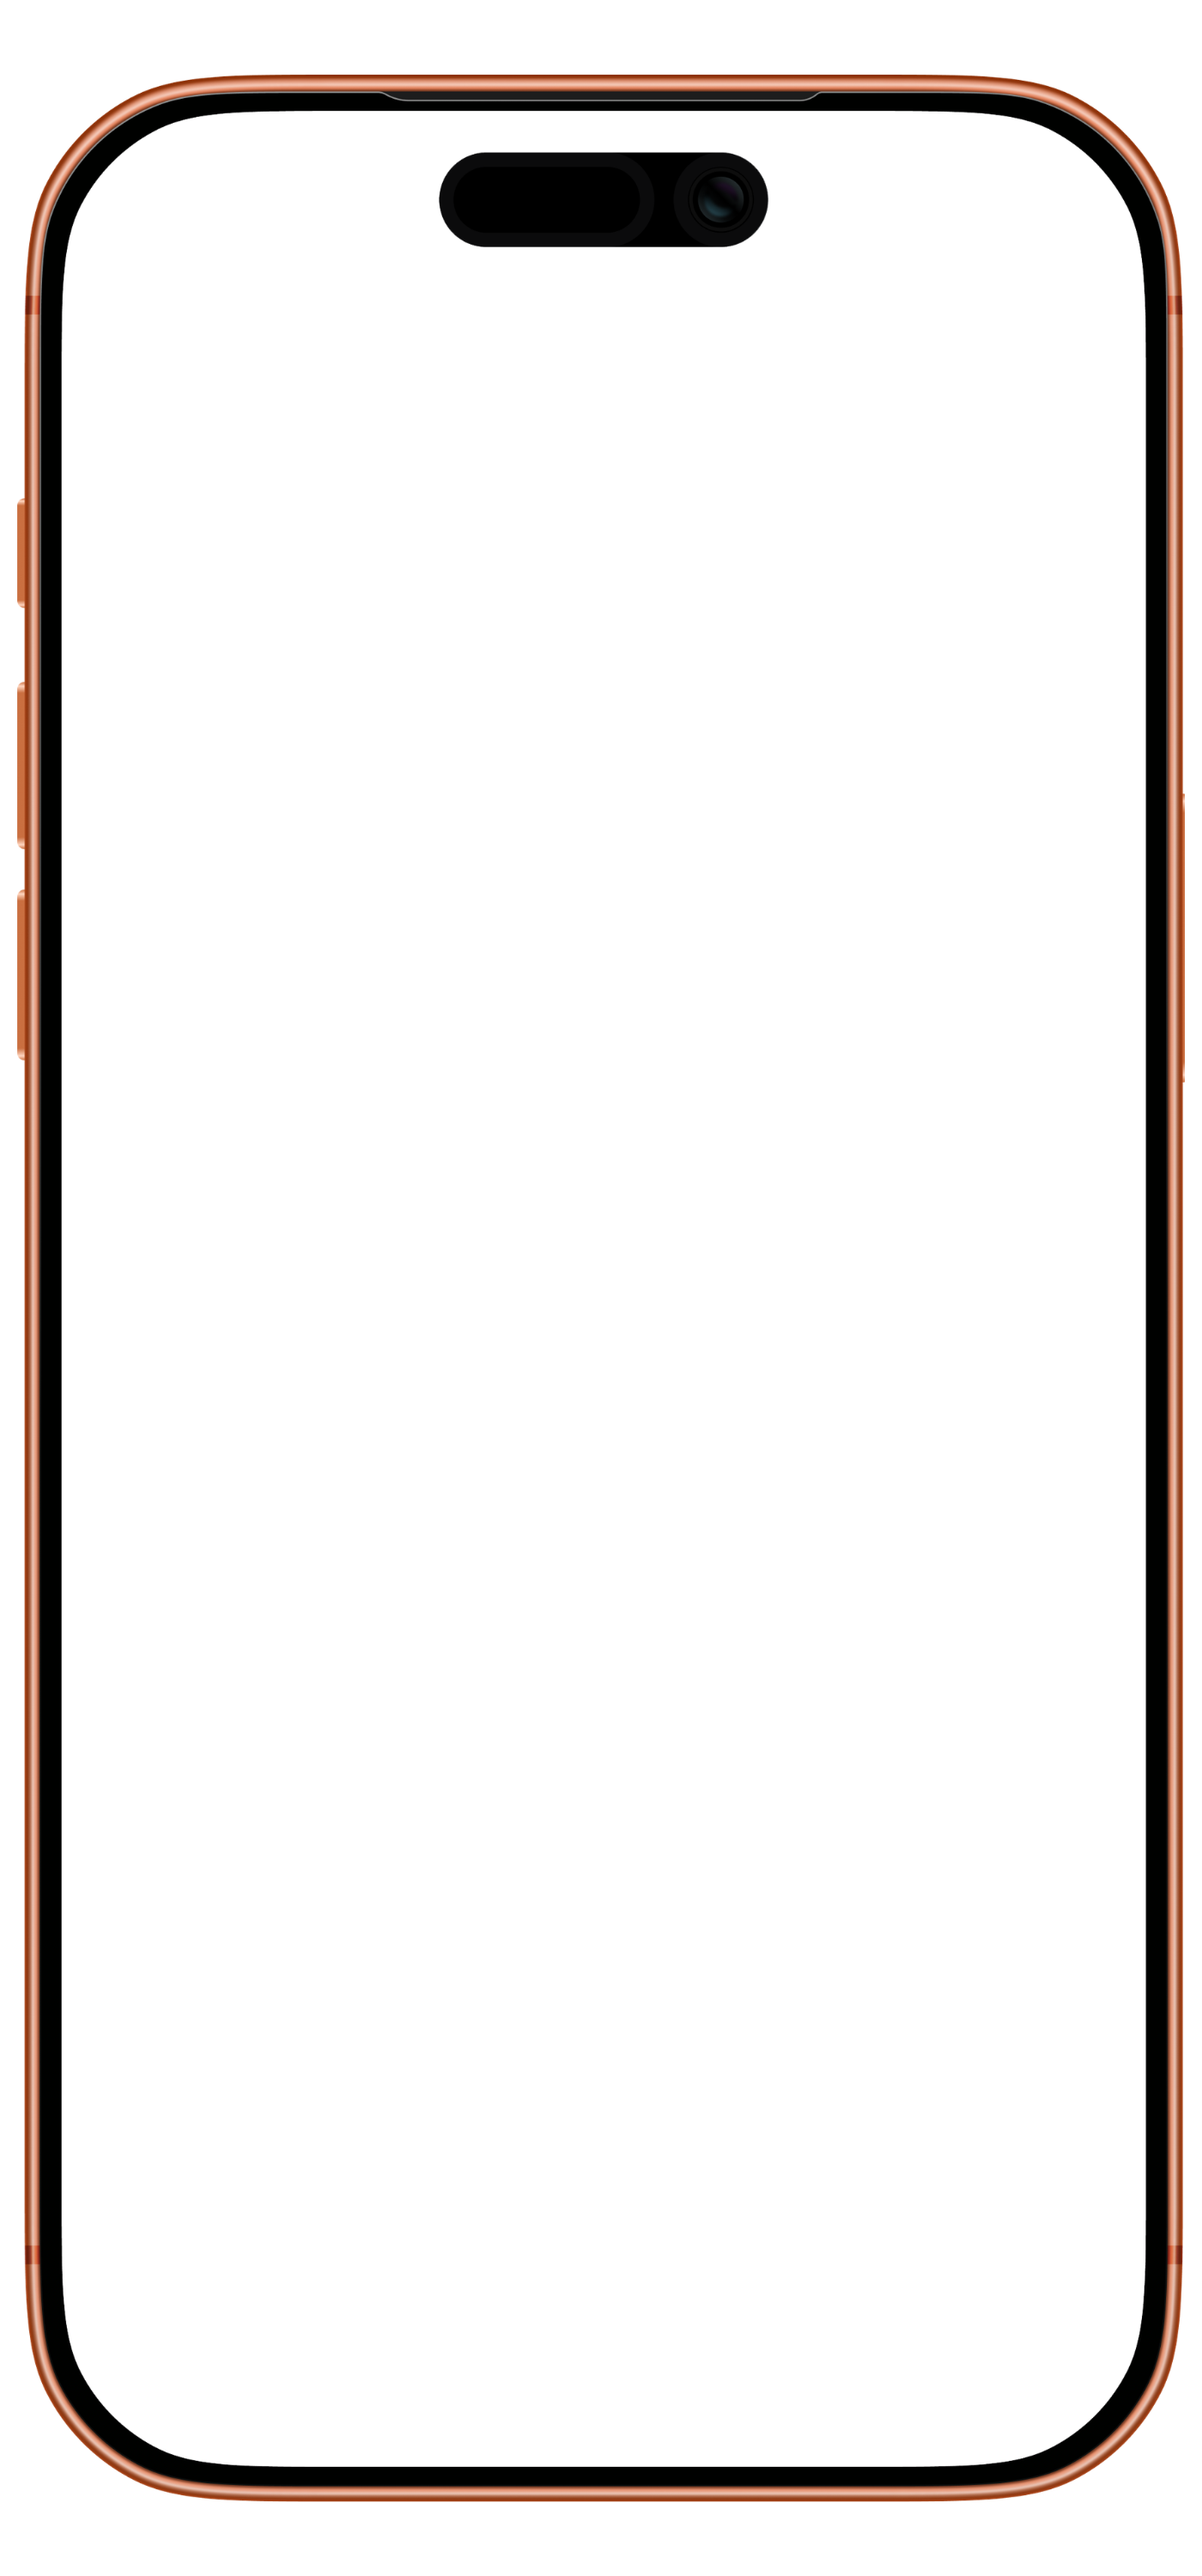
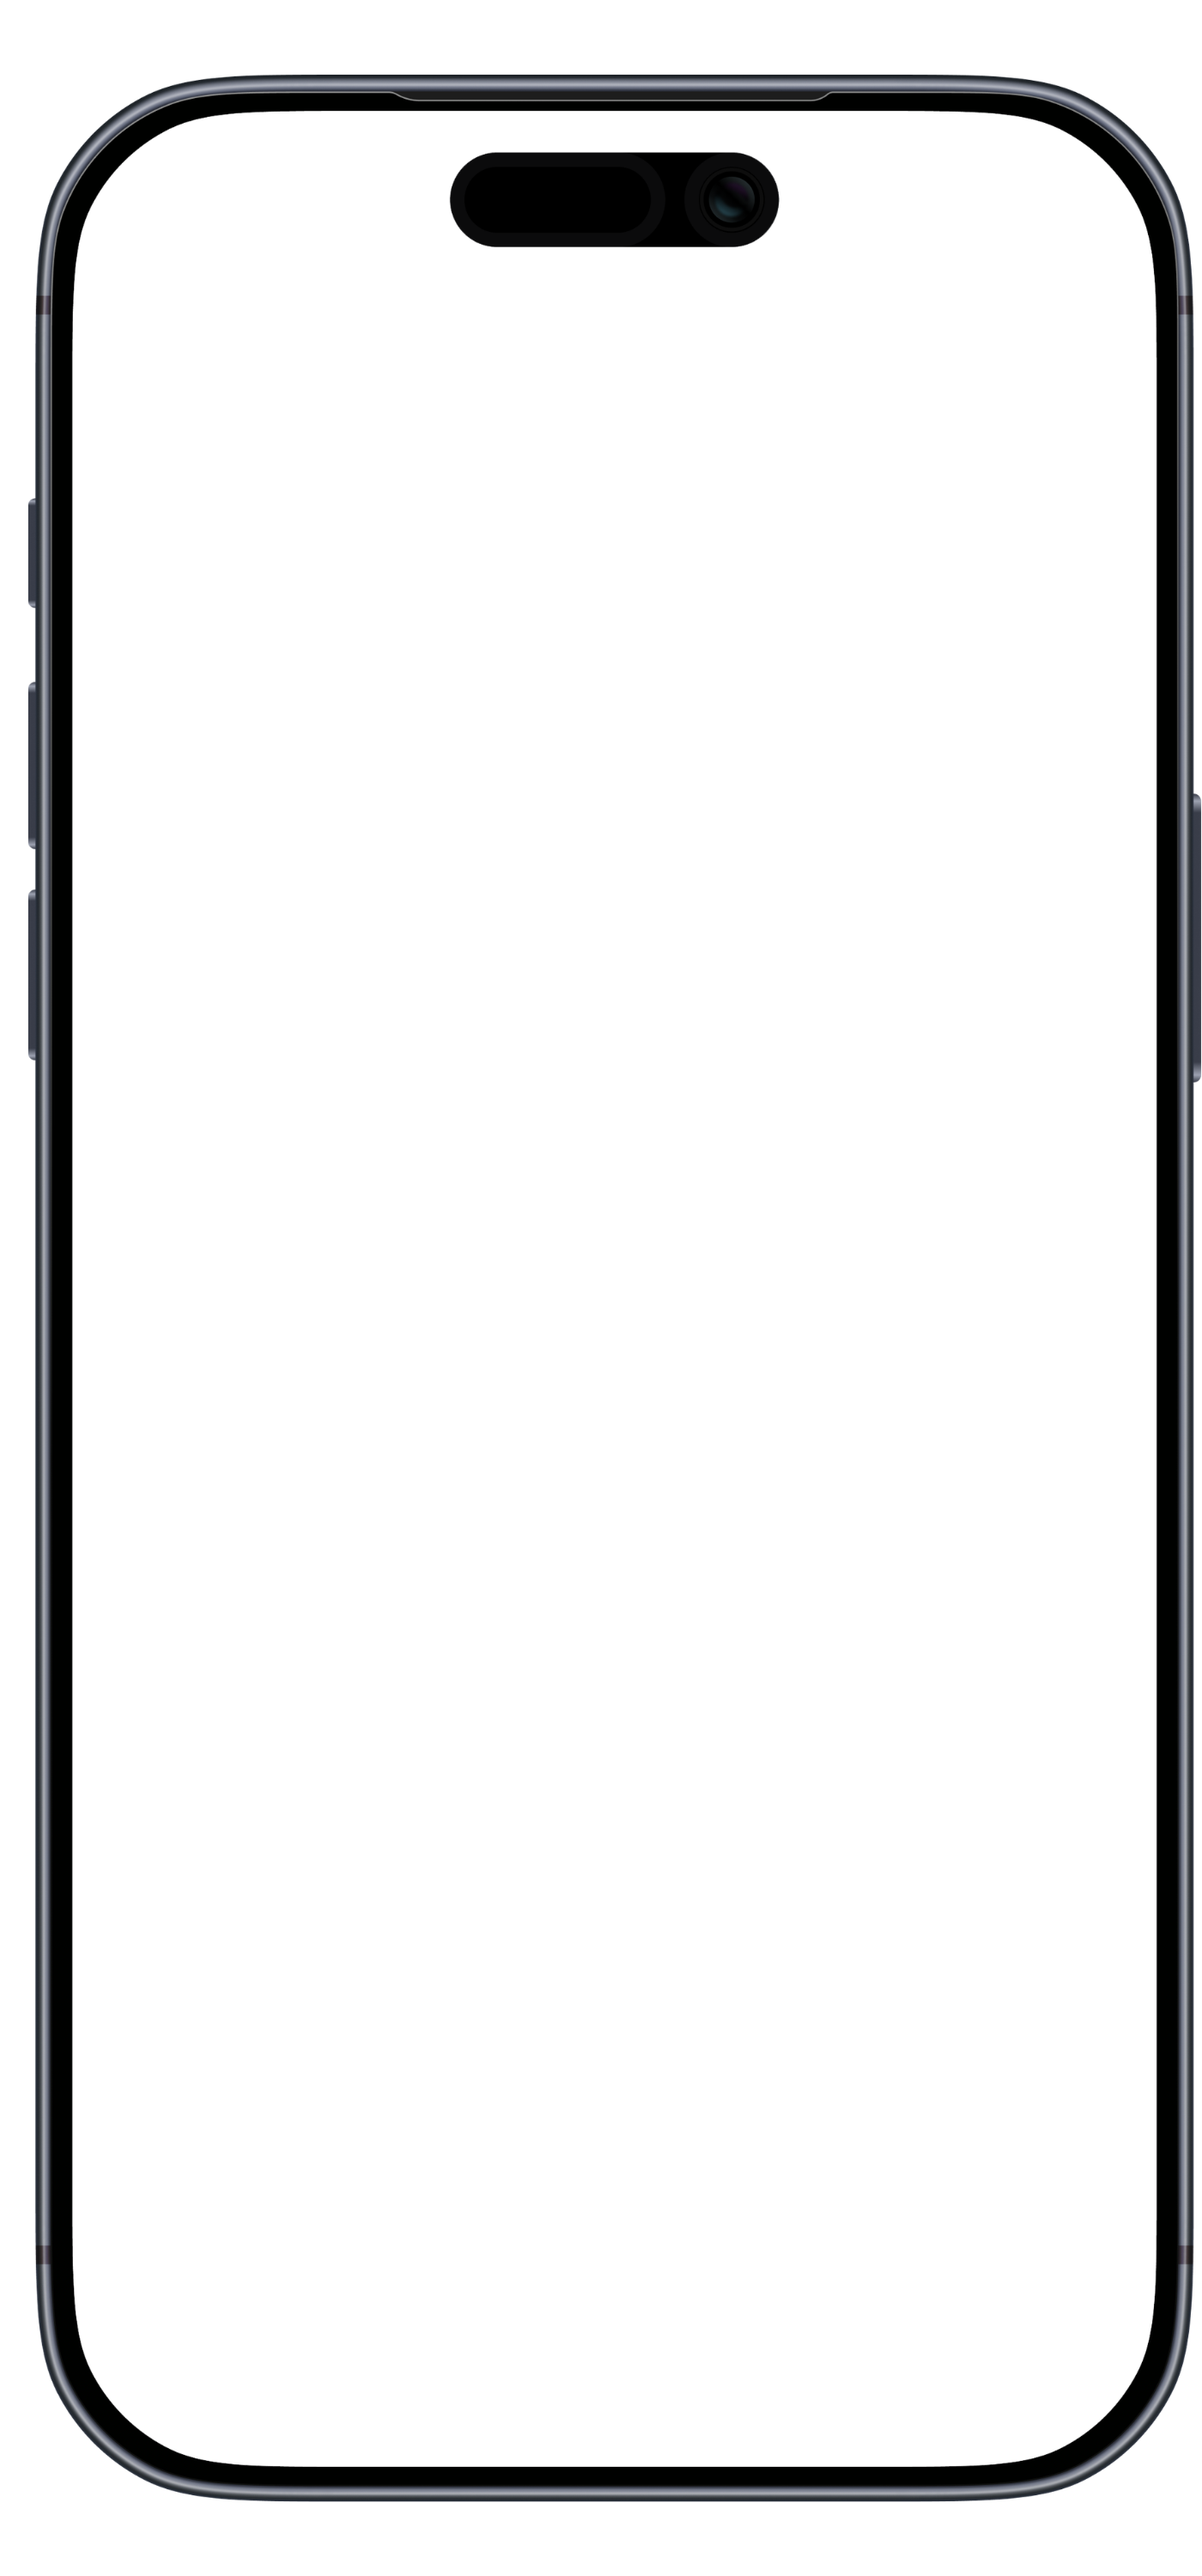
Updated iPhone frame asset + re-measured screen window insets

Changed region(s): [[0.0, 0.031, 1.0, 0.992]]

diff --git a/index.html b/index.html
@@ -148,7 +148,7 @@
     border-radius:64px;box-shadow:0 60px 110px -34px rgba(0,0,0,.8)}
   .stage:not(.scenes) .phone{transition:transform 1s var(--ease)}
   /* screen window measured from the frame's alpha channel */
-  .screens{position:absolute;left:5.214%;right:4.714%;top:4.333%;bottom:4.267%;z-index:1;
+  .screens{position:absolute;left:6.071%;right:3.857%;top:4.333%;bottom:4.267%;z-index:1;
     overflow:hidden;background:#0d0709;border-radius:13% / 6%;
     /* composited (transformed) children escape border-radius clipping in
        Chrome — clip-path + isolation clips GPU layers reliably */
